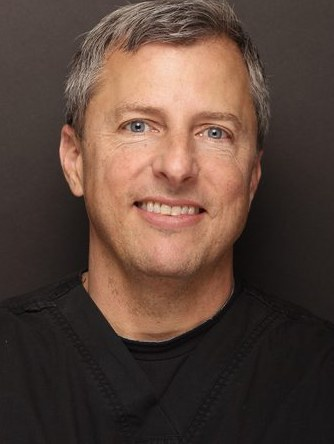
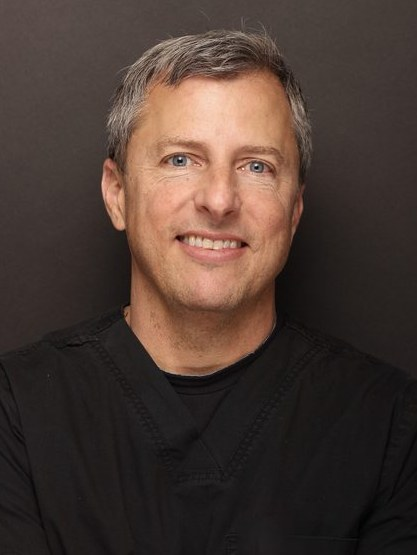
Upscaled headshots, Dr. Coles in the white coat, lighter doctor-page CTAs
Headshots now regenerate from build/make_headshots.py, which prefers
images/doctors/_upscaled/ over the camera original. Curtis and Tipton use the
Higgsfield (bytedance_image_upscale) results Tyler approved after a face-fidelity
check - face-region SSIM 0.991 and 0.994 against the real photo, so the upscaler
sharpened rather than reshaped.

Dr. Coles now uses the white-coat portrait, extracted from the six-up collage in
"Doctor Images/doctor collage.png" (the only place it existed) and upscaled the
same way. Framing loosened from face_frac 0.60 to 0.48 so his coat and the
"Dr. Coles" embroidery stay in frame; at 0.60 the crop cut in so tight it read as
a plain white shirt. Where a source lacks the headroom for 0.48 (Tipton,
Robinson) the window shifts rather than resizes, so head size stays uniform
across the six and only the eye line drifts slightly.

Doctor pages: removed the top "Schedule a Free Consultation" button on all six.
These pages get people researching a specific orthodontist, not shopping, and a
hard CTA above the bio reads as pushy. The office link stays (promoted to the
filled style) and the consult CTA still sits in the band lower down.

meet-the-team hero was team-group.jpg, which despite its name is a single
person's portrait - now the real 13-person collage.

Dropped the "higher-res headshot" TODO chips from the Curtis and Tipton pages;
they are stale now that both are upscaled.

Changed region(s): [[0.1796, 0.0, 0.8084, 0.7905], [0.0, 0.6441, 0.0299, 0.6734]]

diff --git a/meet-the-doctors.html b/meet-the-doctors.html
@@ -189,12 +189,12 @@ body.mm-lock{overflow:hidden}
 <section><div class="wrap">
   <div class="center"><span class="eyebrow">The doctors</span><h2 class="sec">Six orthodontists, one standard</h2><p class="lead">Members of the American Association of Orthodontists. Trained at UCLA, Baylor, Washington University, Saint Louis University, LSU, Nova Southeastern, and more. Good with nervous kids.</p></div>
   <div class="docs">
-    <a class="doc" href="/dr-dustin-coles"><div class="ph"><img src="/images/doctors/dr-coles.jpg" alt="Dr. Dustin Coles, orthodontist" loading="lazy" width="496" height="663"></div><div class="b"><h3>Dr. Dustin Coles</h3><div class="cred">DDS, MSD · Orthodontist</div><p>20,000+ smiles in 20+ years. Award-winning Invisalign provider, author, educator, and the reason Smile 4 Less exists.</p><div class="seen-at"><b>Sees patients at:</b> West El Paso</div></div></a>
-    <a class="doc" href="/dr-alan-curtis"><div class="ph"><img src="/images/doctors/dr-curtis.jpg" alt="Dr. Alan Curtis, orthodontist" loading="lazy" width="470" height="628"></div><div class="b"><h3>Dr. Alan Curtis</h3><div class="cred">DDS, MS · Orthodontist</div><p>UCLA dental grad, Baylor-trained, adjunct faculty at A.T. Still University, and fluent in Spanish.</p><div class="seen-at"><b>Sees patients at:</b> East El Paso</div></div></a>
-    <a class="doc" href="/dr-tom-tipton"><div class="ph"><img src="/images/doctors/dr-tipton.jpg" alt="Dr. Tom Tipton, orthodontist" loading="lazy" width="528" height="702"></div><div class="b"><h3>Dr. Tom Tipton</h3><div class="cred">Orthodontist</div><p>Washington University and University of Pittsburgh trained. Raised in a military family, and a longtime humanitarian volunteer.</p><div class="seen-at"><b>Sees patients at:</b> East &amp; West El Paso</div></div></a>
-    <a class="doc" href="/dr-daniel-cloward"><div class="ph"><img src="/images/doctors/dr-cloward.jpg" alt="Dr. Daniel Cloward, orthodontist" loading="lazy" width="344" height="458"></div><div class="b"><h3>Dr. Daniel Cloward</h3><div class="cred">DMD, MSD, MPH · Orthodontist</div><p>Three advanced degrees and a public-health mindset. Bilingual in English and Spanish.</p><div class="seen-at"><b>Sees patients at:</b> Horizon City</div></div></a>
-    <a class="doc" href="/dr-paul-robinson"><div class="ph"><img src="/images/doctors/dr-robinson.jpg" alt="Dr. Paul Robinson, orthodontist" loading="lazy" width="399" height="531"></div><div class="b"><h3>Dr. Paul Robinson</h3><div class="cred">DMD · Orthodontist</div><p>Craniofacial fellowship in Chicago, University of Nebraska residency, and patients aged five to 70.</p><div class="seen-at"><b>Sees patients at:</b> Horizon City</div></div></a>
-    <a class="doc" href="/dr-joseph-morneau"><div class="ph"><img src="/images/doctors/dr-morneau.jpg" alt="Dr. Joseph Morneau, orthodontist" loading="lazy" width="334" height="444"></div><div class="b"><h3>Dr. Joseph Morneau</h3><div class="cred">DMD · Orthodontist</div><p>U.S. Navy veteran, author of <em>Orthodontics 101</em>, and former chief of orthodontics for a pediatric residency.</p><div class="seen-at"><b>Sees patients at:</b> Horizon City</div></div></a>
+    <a class="doc" href="/dr-dustin-coles"><div class="ph"><img src="/images/doctors/dr-coles.jpg" alt="Dr. Dustin Coles, orthodontist" loading="lazy" width="720" height="960"></div><div class="b"><h3>Dr. Dustin Coles</h3><div class="cred">DDS, MSD · Orthodontist</div><p>20,000+ smiles in 20+ years. Award-winning Invisalign provider, author, educator, and the reason Smile 4 Less exists.</p><div class="seen-at"><b>Sees patients at:</b> West El Paso</div></div></a>
+    <a class="doc" href="/dr-alan-curtis"><div class="ph"><img src="/images/doctors/dr-curtis.jpg" alt="Dr. Alan Curtis, orthodontist" loading="lazy" width="720" height="960"></div><div class="b"><h3>Dr. Alan Curtis</h3><div class="cred">DDS, MS · Orthodontist</div><p>UCLA dental grad, Baylor-trained, adjunct faculty at A.T. Still University, and fluent in Spanish.</p><div class="seen-at"><b>Sees patients at:</b> East El Paso</div></div></a>
+    <a class="doc" href="/dr-tom-tipton"><div class="ph"><img src="/images/doctors/dr-tipton.jpg" alt="Dr. Tom Tipton, orthodontist" loading="lazy" width="720" height="960"></div><div class="b"><h3>Dr. Tom Tipton</h3><div class="cred">Orthodontist</div><p>Washington University and University of Pittsburgh trained. Raised in a military family, and a longtime humanitarian volunteer.</p><div class="seen-at"><b>Sees patients at:</b> East &amp; West El Paso</div></div></a>
+    <a class="doc" href="/dr-daniel-cloward"><div class="ph"><img src="/images/doctors/dr-cloward.jpg" alt="Dr. Daniel Cloward, orthodontist" loading="lazy" width="429" height="573"></div><div class="b"><h3>Dr. Daniel Cloward</h3><div class="cred">DMD, MSD, MPH · Orthodontist</div><p>Three advanced degrees and a public-health mindset. Bilingual in English and Spanish.</p><div class="seen-at"><b>Sees patients at:</b> Horizon City</div></div></a>
+    <a class="doc" href="/dr-paul-robinson"><div class="ph"><img src="/images/doctors/dr-robinson.jpg" alt="Dr. Paul Robinson, orthodontist" loading="lazy" width="498" height="663"></div><div class="b"><h3>Dr. Paul Robinson</h3><div class="cred">DMD · Orthodontist</div><p>Craniofacial fellowship in Chicago, University of Nebraska residency, and patients aged five to 70.</p><div class="seen-at"><b>Sees patients at:</b> Horizon City</div></div></a>
+    <a class="doc" href="/dr-joseph-morneau"><div class="ph"><img src="/images/doctors/dr-morneau.jpg" alt="Dr. Joseph Morneau, orthodontist" loading="lazy" width="417" height="555"></div><div class="b"><h3>Dr. Joseph Morneau</h3><div class="cred">DMD · Orthodontist</div><p>U.S. Navy veteran, author of <em>Orthodontics 101</em>, and former chief of orthodontics for a pediatric residency.</p><div class="seen-at"><b>Sees patients at:</b> Horizon City</div></div></a>
   </div>
   <p class="todo" style="margin-top:22px">TODO (office): we removed the "board-certified" wording and the American Board of Orthodontics seal, because none of the bios you sent claim a current ABO diplomate status. If Dr. Curtis (or anyone) is currently board certified, send confirmation and we'll put both back.</p>
   <p class="todo" style="margin-top:10px">TODO (office): Dr. Morneau was not included in the bios doc Charlotte sent. Confirm he is still with the practice; if not, we'll remove his page and card.</p>

diff --git a/horizon-city.html b/horizon-city.html
@@ -203,9 +203,9 @@ body.mm-lock{overflow:hidden}
 <section class="tight"><div class="wrap">
   <div class="center"><span class="eyebrow">Your orthodontists</span><h2 class="sec">Who you'll see at Horizon City</h2></div>
   <div class="docs">
-    <div class="doc"><div class="ph"><img src="/images/doctors/dr-cloward.jpg" alt="Dr. Daniel Cloward, orthodontist" loading="lazy" width="344" height="458"></div><div class="b"><h3>Dr. Daniel Cloward</h3><div class="cred">DMD, MSD, MPH · Orthodontist</div><p>Three advanced degrees and a public-health mindset. Bilingual in English and Spanish.</p></div></div>
-    <div class="doc"><div class="ph"><img src="/images/doctors/dr-robinson.jpg" alt="Dr. Paul Robinson, orthodontist" loading="lazy" width="399" height="531"></div><div class="b"><h3>Dr. Paul Robinson</h3><div class="cred">DMD · Orthodontist</div><p>Craniofacial fellowship in Chicago and a University of Nebraska residency.</p></div></div>
-    <div class="doc"><div class="ph"><img src="/images/doctors/dr-morneau.jpg" alt="Dr. Joseph Morneau, orthodontist" loading="lazy" width="334" height="444"></div><div class="b"><h3>Dr. Joseph Morneau</h3><div class="cred">DMD · Orthodontist</div><p>U.S. Navy veteran and author of <em>Orthodontics 101</em>.</p></div></div>
+    <div class="doc"><div class="ph"><img src="/images/doctors/dr-cloward.jpg" alt="Dr. Daniel Cloward, orthodontist" loading="lazy" width="429" height="573"></div><div class="b"><h3>Dr. Daniel Cloward</h3><div class="cred">DMD, MSD, MPH · Orthodontist</div><p>Three advanced degrees and a public-health mindset. Bilingual in English and Spanish.</p></div></div>
+    <div class="doc"><div class="ph"><img src="/images/doctors/dr-robinson.jpg" alt="Dr. Paul Robinson, orthodontist" loading="lazy" width="498" height="663"></div><div class="b"><h3>Dr. Paul Robinson</h3><div class="cred">DMD · Orthodontist</div><p>Craniofacial fellowship in Chicago and a University of Nebraska residency.</p></div></div>
+    <div class="doc"><div class="ph"><img src="/images/doctors/dr-morneau.jpg" alt="Dr. Joseph Morneau, orthodontist" loading="lazy" width="417" height="555"></div><div class="b"><h3>Dr. Joseph Morneau</h3><div class="cred">DMD · Orthodontist</div><p>U.S. Navy veteran and author of <em>Orthodontics 101</em>.</p></div></div>
   </div>
 </div></section>
 

diff --git a/west-el-paso.html b/west-el-paso.html
@@ -203,8 +203,8 @@ body.mm-lock{overflow:hidden}
 <section class="tight"><div class="wrap">
   <div class="center"><span class="eyebrow">Your orthodontists</span><h2 class="sec">Who you'll see at West El Paso</h2></div>
   <div class="docs">
-    <div class="doc"><div class="ph"><img src="/images/doctors/dr-coles.jpg" alt="Dr. Dustin Coles, orthodontist" loading="lazy" width="496" height="663"></div><div class="b"><h3>Dr. Dustin Coles</h3><div class="cred">DDS, MSD · Orthodontist</div><p>20,000+ smiles in 20+ years. Award-winning Invisalign provider and the reason Smile 4 Less exists.</p></div></div>
-    <div class="doc"><div class="ph"><img src="/images/doctors/dr-tipton.jpg" alt="Dr. Tom Tipton, orthodontist" loading="lazy" width="528" height="702"></div><div class="b"><h3>Dr. Tom Tipton</h3><div class="cred">Orthodontist</div><p>Washington University and University of Pittsburgh trained. Raised in a military family.</p></div></div>
+    <div class="doc"><div class="ph"><img src="/images/doctors/dr-coles.jpg" alt="Dr. Dustin Coles, orthodontist" loading="lazy" width="720" height="960"></div><div class="b"><h3>Dr. Dustin Coles</h3><div class="cred">DDS, MSD · Orthodontist</div><p>20,000+ smiles in 20+ years. Award-winning Invisalign provider and the reason Smile 4 Less exists.</p></div></div>
+    <div class="doc"><div class="ph"><img src="/images/doctors/dr-tipton.jpg" alt="Dr. Tom Tipton, orthodontist" loading="lazy" width="720" height="960"></div><div class="b"><h3>Dr. Tom Tipton</h3><div class="cred">Orthodontist</div><p>Washington University and University of Pittsburgh trained. Raised in a military family.</p></div></div>
   </div>
 </div></section>
 

diff --git a/east-el-paso.html b/east-el-paso.html
@@ -203,8 +203,8 @@ body.mm-lock{overflow:hidden}
 <section class="tight"><div class="wrap">
   <div class="center"><span class="eyebrow">Your orthodontists</span><h2 class="sec">Who you'll see at East El Paso</h2></div>
   <div class="docs">
-    <div class="doc"><div class="ph"><img src="/images/doctors/dr-curtis.jpg" alt="Dr. Alan Curtis, orthodontist" loading="lazy" width="470" height="628"></div><div class="b"><h3>Dr. Alan Curtis</h3><div class="cred">DDS, MS · Orthodontist</div><p>UCLA dental grad, Baylor-trained, adjunct faculty, and fluent in Spanish.</p></div></div>
-    <div class="doc"><div class="ph"><img src="/images/doctors/dr-tipton.jpg" alt="Dr. Tom Tipton, orthodontist" loading="lazy" width="528" height="702"></div><div class="b"><h3>Dr. Tom Tipton</h3><div class="cred">Orthodontist</div><p>Washington University and University of Pittsburgh trained. Raised in a military family.</p></div></div>
+    <div class="doc"><div class="ph"><img src="/images/doctors/dr-curtis.jpg" alt="Dr. Alan Curtis, orthodontist" loading="lazy" width="720" height="960"></div><div class="b"><h3>Dr. Alan Curtis</h3><div class="cred">DDS, MS · Orthodontist</div><p>UCLA dental grad, Baylor-trained, adjunct faculty, and fluent in Spanish.</p></div></div>
+    <div class="doc"><div class="ph"><img src="/images/doctors/dr-tipton.jpg" alt="Dr. Tom Tipton, orthodontist" loading="lazy" width="720" height="960"></div><div class="b"><h3>Dr. Tom Tipton</h3><div class="cred">Orthodontist</div><p>Washington University and University of Pittsburgh trained. Raised in a military family.</p></div></div>
   </div>
 </div></section>
 

diff --git a/dr-alan-curtis.html b/dr-alan-curtis.html
@@ -180,11 +180,11 @@ body.mm-lock{overflow:hidden}
   <span class="eyebrow">Orthodontist · East El Paso</span>
   <h1>Dr. Alan A. Curtis, <span class="u">DDS, MS</span></h1>
   <p class="lead">"Orthodontics is a passion for creating order in an otherwise chaotic world." Creating healthy, confident smiles for families in Arizona and Texas since 2007, in English or Spanish.</p>
-  <div class="btns"><a class="btn teal" href="/free-consultation">Schedule a Free Consultation</a><a class="btn lineT" href="/east-el-paso">East El Paso office</a></div>
+  <div class="btns"><a class="btn teal" href="/east-el-paso">East El Paso office</a></div>
 </div></section>
 
 <section class="docpage"><div class="wrap grid">
-  <div class="photo"><img src="/images/doctors/dr-curtis.jpg" alt="Dr. Alan Curtis" width="470" height="628"><span class="todo" style="margin:8px">TODO: higher-res headshot from the practice</span></div>
+  <div class="photo"><img src="/images/doctors/dr-curtis.jpg" alt="Dr. Alan Curtis" width="720" height="960"></div>
   <div class="prose">
     <h2>About Dr. Curtis</h2>
     <p>Dr. Alan Curtis has been creating healthy, confident smiles for families in Arizona and Texas since 2007. He earned his bachelor's degree from Brigham Young University, scored in the top 1% on the dental admissions exam, and completed his DDS at the UCLA School of Dentistry. He then finished a two-year orthodontic residency at Baylor College of Dentistry (Texas A&amp;M), where he received his Certificate in Orthodontics and a Master of Science in Oral Biology.</p>

diff --git a/dr-daniel-cloward.html b/dr-daniel-cloward.html
@@ -180,7 +180,7 @@ body.mm-lock{overflow:hidden}
   <span class="eyebrow">Orthodontist · Horizon City</span>
   <h1>Dr. Daniel Cloward, <span class="u">DMD, MSD, MPH</span></h1>
   <p class="lead">"The best part of my job is watching a patient's confidence change along with their smile. That's what I'm really here for."</p>
-  <div class="btns"><a class="btn teal" href="/free-consultation">Schedule a Free Consultation</a><a class="btn lineT" href="/horizon-city">Horizon City office</a></div>
+  <div class="btns"><a class="btn teal" href="/horizon-city">Horizon City office</a></div>
 </div></section>
 
 <div class="mstrip"><div class="wrap row">
@@ -191,7 +191,7 @@ body.mm-lock{overflow:hidden}
 </div></div>
 
 <section class="docpage"><div class="wrap grid">
-  <div class="photo"><img src="/images/doctors/dr-cloward.jpg" alt="Dr. Daniel Cloward" width="344" height="458"></div>
+  <div class="photo"><img src="/images/doctors/dr-cloward.jpg" alt="Dr. Daniel Cloward" width="429" height="573"></div>
   <div class="prose">
     <h2>An orthodontist with a public-health mindset</h2>
     <p>Before he became an orthodontist, Dr. Daniel Cloward earned a Master of Public Health, and it shaped how he thinks about care. He was drawn to orthodontics to help people, and he plans every case around one goal: a smile that is healthy, looks great, and lasts a lifetime.</p>

diff --git a/dr-dustin-coles.html b/dr-dustin-coles.html
@@ -180,7 +180,7 @@ body.mm-lock{overflow:hidden}
   <span class="eyebrow">Orthodontist · West El Paso</span>
   <h1>Dr. Dustin Coles, <span class="u">DDS, MSD</span></h1>
   <p class="lead">"Most people pay twice as much for the same treatment somewhere else. That never made sense to me, so we built something better."</p>
-  <div class="btns"><a class="btn teal" href="/free-consultation">Schedule a Free Consultation</a><a class="btn lineT" href="/west-el-paso">West El Paso office</a></div>
+  <div class="btns"><a class="btn teal" href="/west-el-paso">West El Paso office</a></div>
 </div></section>
 
 <div class="mstrip"><div class="wrap row">
@@ -191,7 +191,7 @@ body.mm-lock{overflow:hidden}
 </div></div>
 
 <section class="docpage"><div class="wrap grid">
-  <div class="photo"><img src="/images/doctors/dr-coles.jpg" alt="Dr. Dustin Coles" width="496" height="663"></div>
+  <div class="photo"><img src="/images/doctors/dr-coles.jpg" alt="Dr. Dustin Coles" width="720" height="960"></div>
   <div class="prose">
     <h2>The doctor behind your smile</h2>
     <p>Dr. Dustin Coles has spent his entire career proving that premium care and an honest price can go together. Since starting in orthodontics in 2006, he has personally helped transform more than 20,000 smiles, with patients driving hours just to sit in his chair.</p>

diff --git a/dr-tom-tipton.html b/dr-tom-tipton.html
@@ -180,11 +180,11 @@ body.mm-lock{overflow:hidden}
   <span class="eyebrow">Orthodontist · East &amp; West El Paso</span>
   <h1>Dr. Tom <span class="u">Tipton</span></h1>
   <p class="lead">Raised in a military family, so Fort Bliss families feel like home. Half marathons with his kids, humanitarian dental work on three continents, and a real fondness for El Paso patients.</p>
-  <div class="btns"><a class="btn teal" href="/free-consultation">Schedule a Free Consultation</a><a class="btn lineT" href="/west-el-paso">West El Paso office</a></div>
+  <div class="btns"><a class="btn teal" href="/west-el-paso">West El Paso office</a></div>
 </div></section>
 
 <section class="docpage"><div class="wrap grid">
-  <div class="photo"><img src="/images/doctors/dr-tipton.jpg" alt="Dr. Tom Tipton" width="528" height="702"><span class="todo" style="margin:8px">TODO: higher-res headshot from the practice</span></div>
+  <div class="photo"><img src="/images/doctors/dr-tipton.jpg" alt="Dr. Tom Tipton" width="720" height="960"></div>
   <div class="prose">
     <h2>About Dr. Tipton</h2>
     <p>Dr. Tipton earned his dental degree from Washington University in St. Louis and his orthodontic degree from the University of Pittsburgh. He practiced orthodontics in Tempe and Gilbert, Arizona for many years before coming to El Paso.</p>

diff --git a/dr-paul-robinson.html b/dr-paul-robinson.html
@@ -180,11 +180,11 @@ body.mm-lock{overflow:hidden}
   <span class="eyebrow">Orthodontist · Horizon City</span>
   <h1>Dr. Paul Robinson, <span class="u">DMD</span></h1>
   <p class="lead">"I feel very blessed to be able to do work that I truly love every day. I believe orthodontics is the best career in the world."</p>
-  <div class="btns"><a class="btn teal" href="/free-consultation">Schedule a Free Consultation</a><a class="btn lineT" href="/horizon-city">Horizon City office</a></div>
+  <div class="btns"><a class="btn teal" href="/horizon-city">Horizon City office</a></div>
 </div></section>
 
 <section class="docpage"><div class="wrap grid">
-  <div class="photo"><img src="/images/doctors/dr-robinson.jpg" alt="Dr. Paul Robinson" width="399" height="531"></div>
+  <div class="photo"><img src="/images/doctors/dr-robinson.jpg" alt="Dr. Paul Robinson" width="498" height="663"></div>
   <div class="prose">
     <h2>About Dr. Robinson</h2>
     <p>Dr. Robinson has the opportunity to meet and get to know people of all ages and backgrounds, and to provide a service that in some cases can be life changing. His patients range in age from five to 70 and have come to him from all over Texas and the world.</p>

diff --git a/dr-joseph-morneau.html b/dr-joseph-morneau.html
@@ -180,11 +180,11 @@ body.mm-lock{overflow:hidden}
   <span class="eyebrow">Orthodontist · Horizon City</span>
   <h1>Dr. Joseph Morneau, <span class="u">DMD</span></h1>
   <p class="lead">U.S. Navy veteran, author of <em>Orthodontics 101</em>, and a former teacher of orthodontists. Military families: he gets it.</p>
-  <div class="btns"><a class="btn teal" href="/free-consultation">Schedule a Free Consultation</a><a class="btn lineT" href="/horizon-city">Horizon City office</a></div>
+  <div class="btns"><a class="btn teal" href="/horizon-city">Horizon City office</a></div>
 </div></section>
 
 <section class="docpage"><div class="wrap grid">
-  <div class="photo"><img src="/images/doctors/dr-morneau.jpg" alt="Dr. Joseph Morneau" width="334" height="444"></div>
+  <div class="photo"><img src="/images/doctors/dr-morneau.jpg" alt="Dr. Joseph Morneau" width="417" height="555"></div>
   <div class="prose">
     <h2>About Dr. Morneau</h2>
     <p>Dr. Morneau earned his dental degree from the Louisiana State University School of Dentistry, then completed his orthodontic residency at St. Barnabas Hospital in New York.</p>

diff --git a/meet-the-team.html b/meet-the-team.html
@@ -183,7 +183,7 @@ body.mm-lock{overflow:hidden}
     <p class="lead">Read our Google reviews and you'll notice something: patients mention our team by name. Gracie, Miriam, Dominique, Destiny, Alfonso, Marlyn. Friendly, fast, bilingual, and genuinely happy to see you. Here's the crew.</p>
     <div class="btns"><a class="btn teal" href="/free-consultation">Come say hi (it's free)</a><a class="btn lineT" href="/meet-the-doctors">Meet the doctors</a></div>
   </div>
-  <img src="/images/team/team-group.jpg" alt="The Smile 4 Less team" style="object-position:top" width="480" height="654">
+  <img src="/images/team-collage.jpg" alt="The Smile 4 Less team" style="height:auto;object-fit:contain;background:var(--mist)" width="1581" height="964">
 </div></section>
 
 <section><div class="wrap">
